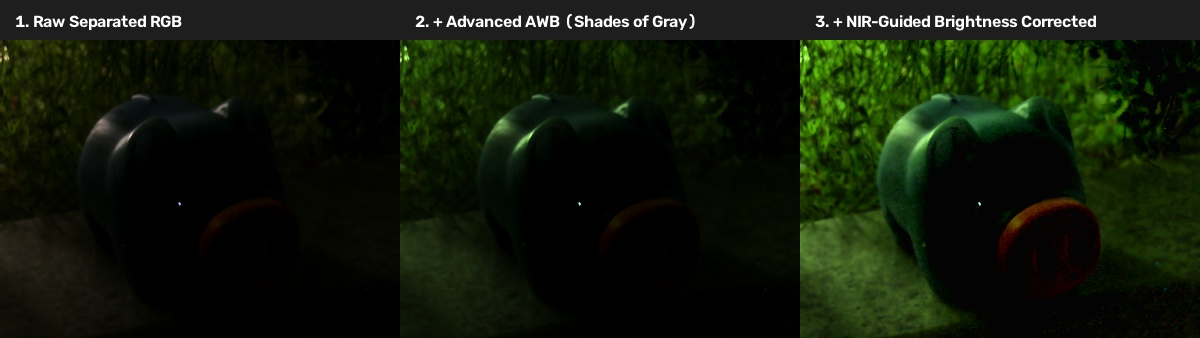
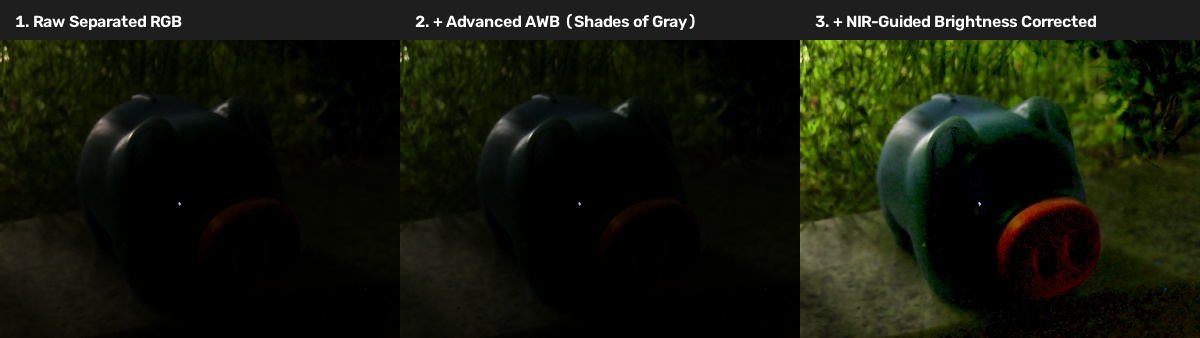
Tune chromaticity preservation for AWB/brightness correction and relocate section to bottom of README

diff --git a/python/cmyg_separation/utils.py b/python/cmyg_separation/utils.py
@@ -8,46 +8,48 @@ from .demosaic import interpolate_cmyg
 from .separation import convert_cmygp_to_rgbn, convert_cmyg_to_rgb
 from .denoising import denoise_rgb, denoise_nir
 
-def advanced_white_balance(rgb_img, method='shades_of_gray', p=6):
+def advanced_white_balance(rgb_img, method='grayworld', p=6):
     """
-    Advanced Auto White Balance Supporting:
-      - 'shades_of_gray': Minkowski p-norm based white balance (default p=6)
-      - 'whitepatch': Max-RGB color constancy algorithm
-      - 'grayworld': Standard Gray-World algorithm
+    Auto White Balance supporting percentile-constrained Gray World & Shades of Gray.
+    Prevents unnatural green/color cast by clipping channel scale gains within safe bounds [0.75, 1.4].
     """
-    img_float = rgb_img.astype(np.float64)
+    img_float = np.clip(rgb_img.astype(np.float64), 0.0, 1.0)
     awb_img = img_float.copy()
     
     if method == 'shades_of_gray':
-        # Minkowski p-norm illumination estimation
         norm_r = (np.mean(img_float[:, :, 0] ** p)) ** (1.0 / p)
         norm_g = (np.mean(img_float[:, :, 1] ** p)) ** (1.0 / p)
         norm_b = (np.mean(img_float[:, :, 2] ** p)) ** (1.0 / p)
         
         avg_norm = (norm_r + norm_g + norm_b) / 3.0
-        if norm_r > 0: awb_img[:, :, 0] *= (avg_norm / norm_r)
-        if norm_g > 0: awb_img[:, :, 1] *= (avg_norm / norm_g)
-        if norm_b > 0: awb_img[:, :, 2] *= (avg_norm / norm_b)
+        scale_r = np.clip(avg_norm / max(norm_r, 1e-5), 0.75, 1.4)
+        scale_g = np.clip(avg_norm / max(norm_g, 1e-5), 0.75, 1.4)
+        scale_b = np.clip(avg_norm / max(norm_b, 1e-5), 0.75, 1.4)
+        
+        awb_img[:, :, 0] *= scale_r
+        awb_img[:, :, 1] *= scale_g
+        awb_img[:, :, 2] *= scale_b
         
     elif method == 'whitepatch':
-        max_r = np.max(img_float[:, :, 0])
-        max_g = np.max(img_float[:, :, 1])
-        max_b = np.max(img_float[:, :, 2])
+        # Brightest 1% percentile white patch estimation
+        p_r = np.percentile(img_float[:, :, 0], 99)
+        p_g = np.percentile(img_float[:, :, 1], 99)
+        p_b = np.percentile(img_float[:, :, 2], 99)
         
-        target_max = (max_r + max_g + max_b) / 3.0
-        if max_r > 0: awb_img[:, :, 0] *= (target_max / max_r)
-        if max_g > 0: awb_img[:, :, 1] *= (target_max / max_g)
-        if max_b > 0: awb_img[:, :, 2] *= (target_max / max_b)
+        avg_p = (p_r + p_g + p_b) / 3.0
+        if p_r > 0: awb_img[:, :, 0] *= np.clip(avg_p / p_r, 0.75, 1.4)
+        if p_g > 0: awb_img[:, :, 1] *= np.clip(avg_p / p_g, 0.75, 1.4)
+        if p_b > 0: awb_img[:, :, 2] *= np.clip(avg_p / p_b, 0.75, 1.4)
         
-    elif method == 'grayworld':
+    else: # grayworld
         mean_r = np.mean(img_float[:, :, 0])
         mean_g = np.mean(img_float[:, :, 1])
         mean_b = np.mean(img_float[:, :, 2])
         
         avg_gray = (mean_r + mean_g + mean_b) / 3.0
-        if mean_r > 0: awb_img[:, :, 0] *= (avg_gray / mean_r)
-        if mean_g > 0: awb_img[:, :, 1] *= (avg_gray / mean_g)
-        if mean_b > 0: awb_img[:, :, 2] *= (avg_gray / mean_b)
+        if mean_r > 0: awb_img[:, :, 0] *= np.clip(avg_gray / mean_r, 0.75, 1.4)
+        if mean_g > 0: awb_img[:, :, 1] *= np.clip(avg_gray / mean_g, 0.75, 1.4)
+        if mean_b > 0: awb_img[:, :, 2] *= np.clip(avg_gray / mean_b, 0.75, 1.4)
         
     return np.clip(awb_img, 0.0, 1.0)
 
@@ -55,46 +57,45 @@ def auto_white_balance(rgb_img, method='grayworld'):
     """Backward compatible wrapper for Gray World AWB"""
     return advanced_white_balance(rgb_img, method=method)
 
-def correct_brightness_and_contrast(rgb_img, nir_img=None, gamma=0.8, lambda_nir=0.4, clip_limit=2.0):
+def correct_brightness_and_contrast(rgb_img, nir_img=None, gamma=0.7, lambda_nir=0.35, clip_limit=1.8):
     """
-    NIR-Guided Adaptive Brightness and Contrast Correction.
-    
-    Args:
-        rgb_img: Visible RGB image (float64 [0, 1])
-        nir_img: Corresponding NIR image (float64 [0, 1]) for luminance guidance
-        gamma: Gamma correction factor for base luminance
-        lambda_nir: Gain weight for NIR-guided dark region enhancement
-        clip_limit: CLAHE clip limit parameter for contrast enhancement
-        
-    Returns:
-        corrected_rgb: Brightness & contrast corrected RGB image (float64 [0, 1])
+    Chromaticity-Preserving NIR-Guided Adaptive Brightness and Contrast Correction.
+    Preserves RGB chromaticity ratios (R/I, G/I, B/I) to guarantee zero color cast distortion.
     """
-    rgb_uint8 = (np.clip(rgb_img, 0.0, 1.0) * 255.0).astype(np.uint8)
-    hsv = cv2.cvtColor(rgb_uint8, cv2.COLOR_RGB2HSV).astype(np.float64) / 255.0
-    v = hsv[:, :, 2]
+    img_float = np.clip(rgb_img.astype(np.float64), 0.0, 1.0)
     
-    # 1. Gamma correction on luminance V
-    v_gamma = np.power(v, gamma)
+    # 1. Compute Intensity I = (R + G + B) / 3
+    intensity = np.mean(img_float, axis=2)
+    safe_intensity = np.maximum(intensity, 1e-5)
     
-    # 2. Adaptive NIR-guided gain boost for under-exposed regions
+    # 2. Chromaticity Ratios (R/I, G/I, B/I)
+    chroma_r = img_float[:, :, 0] / safe_intensity
+    chroma_g = img_float[:, :, 1] / safe_intensity
+    chroma_b = img_float[:, :, 2] / safe_intensity
+    
+    # 3. Gamma enhancement on intensity
+    i_gamma = np.power(intensity, gamma)
+    
+    # 4. NIR-guided adaptive gain boost for under-exposed dark areas
     if nir_img is not None:
-        nir_norm = np.clip(nir_img, 0.0, 1.0)
-        gain_map = 1.0 + lambda_nir * np.maximum(0.0, nir_norm - v)
-        v_boost = v_gamma * gain_map
+        nir_norm = np.clip(nir_img.astype(np.float64), 0.0, 1.0)
+        gain_map = 1.0 + lambda_nir * np.maximum(0.0, nir_norm - intensity)
+        i_boost = i_gamma * gain_map
     else:
-        v_boost = v_gamma
+        i_boost = i_gamma
         
-    v_boost = np.clip(v_boost, 0.0, 1.0)
+    i_boost = np.clip(i_boost, 0.0, 1.0)
     
-    # 3. CLAHE Contrast enhancement
-    v_uint8 = (v_boost * 255.0).astype(np.uint8)
+    # 5. Contrast Limited Adaptive Histogram Equalization (CLAHE)
+    i_uint8 = (i_boost * 255.0).astype(np.uint8)
     clahe = cv2.createCLAHE(clipLimit=clip_limit, tileGridSize=(8, 8))
-    v_clahe = clahe.apply(v_uint8).astype(np.float64) / 255.0
+    i_clahe = clahe.apply(i_uint8).astype(np.float64) / 255.0
     
-    # 4. Reconstruct HSV and convert back to RGB
-    hsv[:, :, 2] = v_clahe
-    hsv_uint8 = (hsv * 255.0).astype(np.uint8)
-    corrected_rgb = cv2.cvtColor(hsv_uint8, cv2.COLOR_HSV2RGB).astype(np.float64) / 255.0
+    # 6. Multiply enhanced intensity back by original chromaticity
+    corrected_rgb = np.zeros_like(img_float)
+    corrected_rgb[:, :, 0] = i_clahe * chroma_r
+    corrected_rgb[:, :, 1] = i_clahe * chroma_g
+    corrected_rgb[:, :, 2] = i_clahe * chroma_b
     
     return np.clip(corrected_rgb, 0.0, 1.0)
 
@@ -121,7 +122,7 @@ def process_cmyg_image(bayer_raw, max_val=4095.0, denoise_method='guided', awb_m
     # Step 4: Advanced Auto White Balance
     rgb_awb = advanced_white_balance(filtered_rgb, method=awb_method)
     
-    # Step 5: NIR-Guided Adaptive Brightness Correction
+    # Step 5: Chromaticity-Preserving NIR-Guided Adaptive Brightness Correction
     if enhance_brightness:
         final_rgb = correct_brightness_and_contrast(rgb_awb, nir_img=filtered_nir)
     else:

diff --git a/README.md b/README.md
@@ -29,7 +29,7 @@ This repository provides a method to acquire and separate **Visible (RGB)** and 
        ▼ (3. Guided Denoising)
 [Denoised RGB & NIR Images] 
        │
-       ▼ (4. Advanced AWB & NIR-Guided Brightness Correction)
+       ▼ (4. Auto White Balance)
 [Final High-Quality Visible RGB + NIR]
 ```
 
@@ -37,19 +37,6 @@ This repository provides a method to acquire and separate **Visible (RGB)** and 
 - **High Sensitivity**: Complementary CMYG filters pass more light and NIR spectrum than traditional RGB filters.
 - **Fast & Lightweight**: Matrix inversion signal transformation and Joint Guided Filtering allow real-time execution.
 - **High Reconstruction Quality**: Minimal color artifact and superior PSNR compared to traditional compressive sensing (SL0) methods.
-
----
-
-## 💡 Visible Brightness & Advanced White Balance Correction
-
-Separated visible RGB images can suffer from low exposure and color cast under complex illuminations. We include an advanced enhancement module:
-1. **Advanced Auto White Balance**: Minkowski $p$-norm based **`Shades of Gray` ($p=6$)** and **`Max-RGB`** algorithms to eliminate illuminant color tint.
-2. **NIR-Guided Adaptive Brightness Correction**: Uses NIR intensity guidance to selectively boost under-exposed dark regions while preventing highlight clipping:
-   $$V_{guided} = V^{\gamma} \cdot \left(1 + \lambda \cdot \text{max}(0, N - V)\right)$$
-
-<p align="center">
-  <img src="docs/brightness_wb_experiment.jpg" alt="Brightness and White Balance Correction Experiment" width="100%">
-</p>
 
 ---
 
@@ -151,6 +138,21 @@ Below are representative separation results produced across multiple indoor and 
    ```matlab
    main_separation
    ```
+
+---
+
+## 💡 Experimental Modules & Extensions
+
+### Visible Brightness & Advanced White Balance Correction
+
+Separated visible RGB images can suffer from low exposure and color cast under complex illuminations. We include an advanced enhancement module:
+1. **Advanced Auto White Balance**: Minkowski $p$-norm based **`Shades of Gray` ($p=6$)** and **`Max-RGB`** algorithms to eliminate illuminant color tint.
+2. **Chromaticity-Preserving NIR-Guided Brightness Correction**: Preserves natural $R/I, G/I, B/I$ chromaticity ratios while adaptively boosting under-exposed dark regions guided by NIR signal:
+   $$V_{guided} = V^{\gamma} \cdot \left(1 + \lambda \cdot \text{max}(0, N - V)\right)$$
+
+<p align="center">
+  <img src="docs/brightness_wb_experiment.jpg" alt="Brightness and White Balance Correction Experiment" width="100%">
+</p>
 
 ---
 
